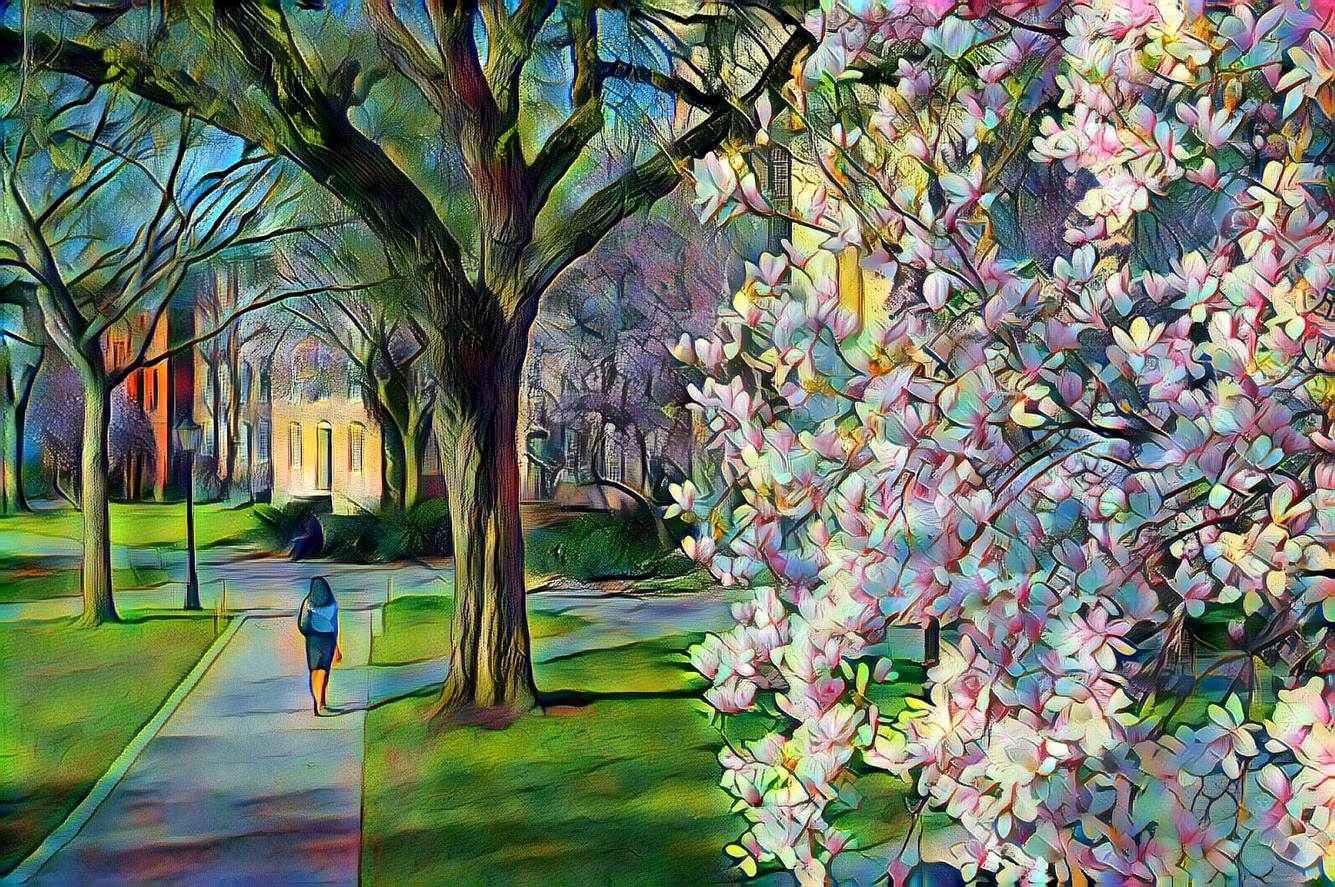
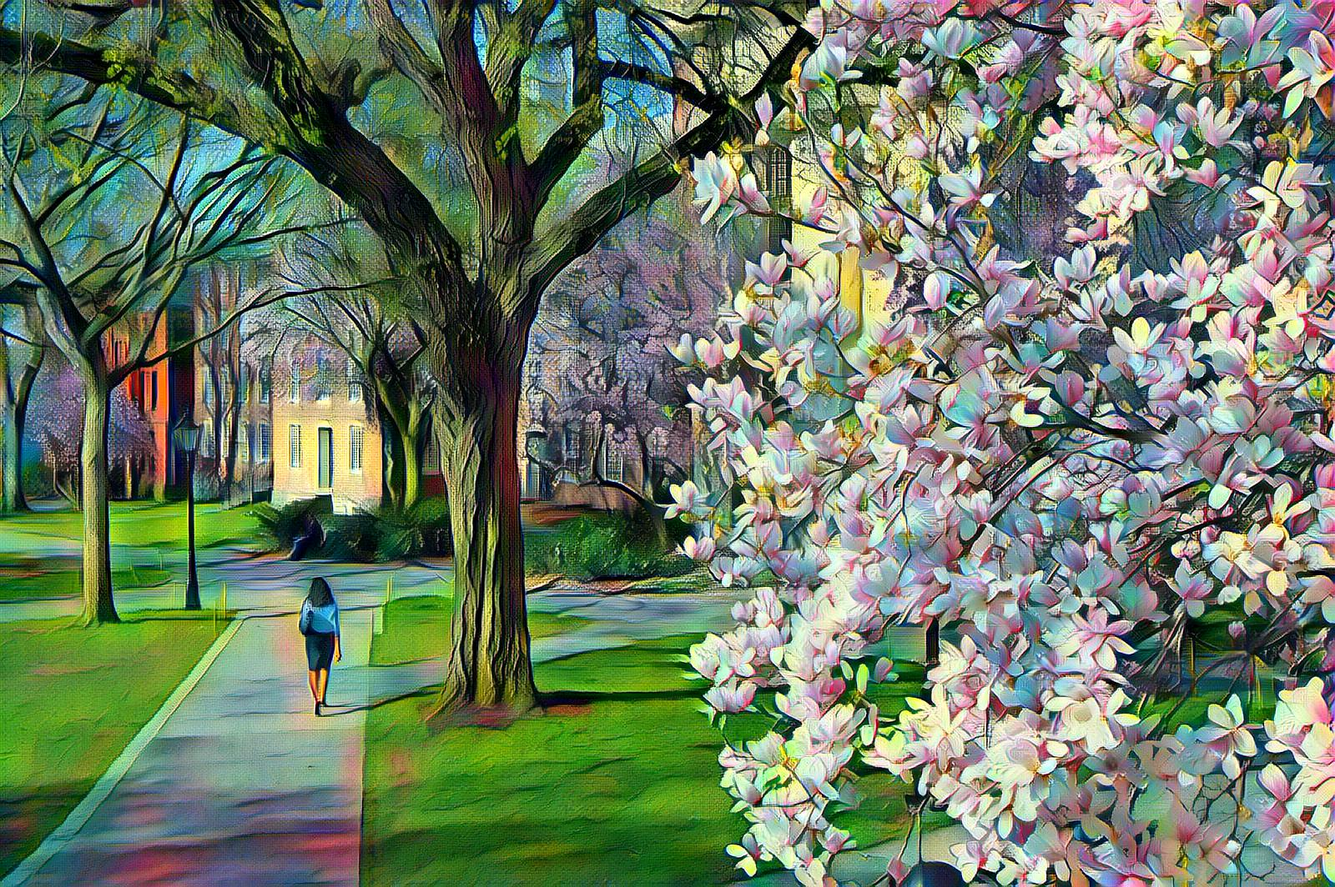
update pretrained models

diff --git a/run.py b/run.py
@@ -59,6 +59,10 @@ def parse_args():
     )
     parser.add_argument("--content-evaluate", help="path the image to transform")
     parser.add_argument("--style-evaluate", help="path to style image")
+    parser.add_argument(
+        "--result-evaluate",
+        help="only the name of the saved output image. It will be stored in ./examples/results. If not specified, the default name will be content name + style name.jpg",
+    )
     return parser.parse_args()
 
 
@@ -87,11 +91,8 @@ def test(model, content_image, style_image, output_name):
     if not os.path.isdir("./examples/results"):
         os.mkdir("./examples/results")
     imsave(
-        "./examples/results/test_{}".format(output_name),
-        img_as_ubyte(
-            deprocess_img(model(content_image, style_image)[-1].numpy())[0] / 255.0
-        ),
-        # deprocess_img(model(content_image, style_image)[-1].numpy())[0],
+        "./examples/results/{}".format(output_name),
+        img_as_ubyte(model(content_image, style_image)[-1].numpy()[0] / 255.0),
     )
 
 
@@ -129,11 +130,14 @@ def main():
     if ARGS.evaluate:
         content_image = get_image(ARGS.content_evaluate)
         style_image = get_image(ARGS.style_evaluate)
-        output_name = (
-            os.path.split(ARGS.content_evaluate)[1][:-4]
-            + "_"
-            + os.path.split(ARGS.style_evaluate)[1]
-        )
+        if ARGS.result_evaluate:
+            output_name = ARGS.result_evaluate
+        else:
+            output_name = (
+                os.path.split(ARGS.content_evaluate)[1][:-4]
+                + "_"
+                + os.path.split(ARGS.style_evaluate)[1]
+            )
         test(model, content_image, style_image, output_name)
 
     else:

diff --git a/models.py b/models.py
@@ -207,10 +207,11 @@ class AdaIN_NST(tf.keras.Model):
         enc_style = self.enc(style)
         adain_content = self.adain(enc_content[-1], enc_style[-1])
         output = self.dec(adain_content)
+        output = deprocess_img(output)
         return [enc_style, adain_content, output]
 
     def loss_fn(self, enc_style, adain_content, output):
-        output = deprocess_img(output)
+        # output = deprocess_img(output)
         output = tf.keras.applications.vgg19.preprocess_input(output)
         enc_adain = self.enc(output)
         content_loss = tf.reduce_sum(
